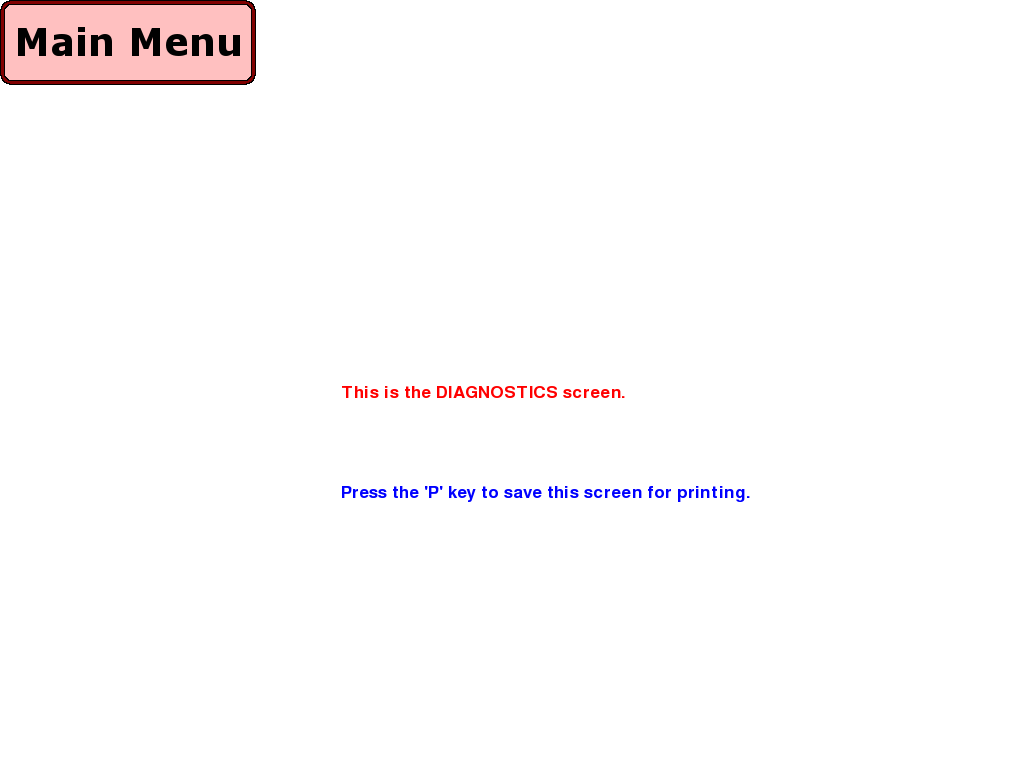
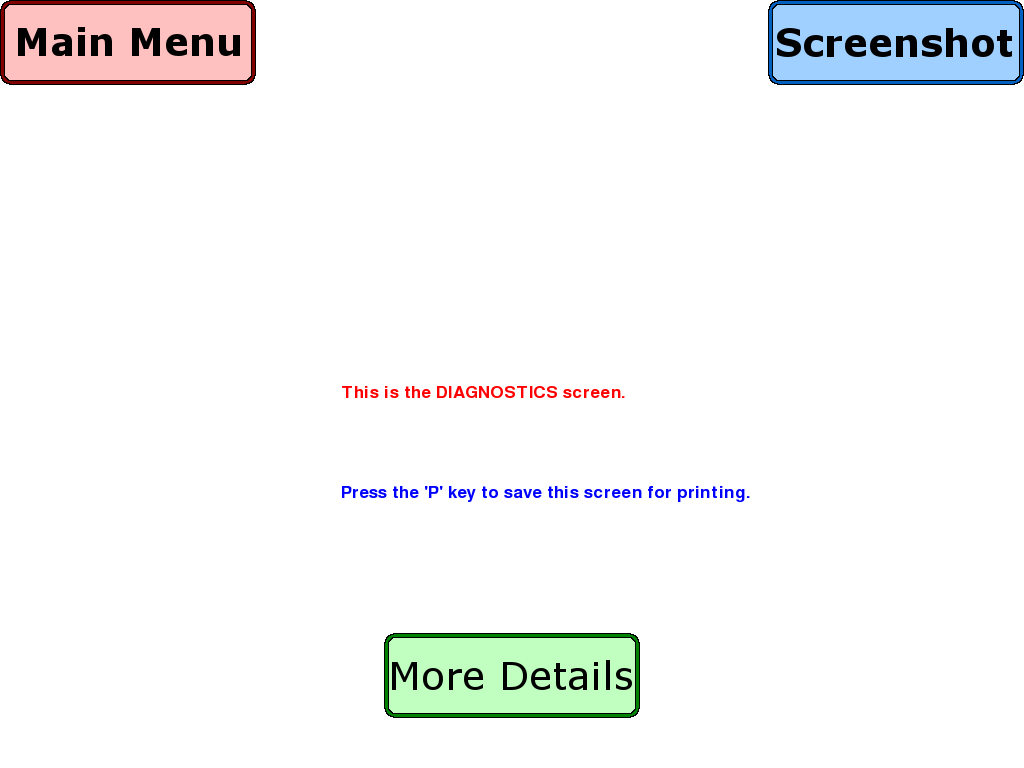
Syntax fixes and preliminary display work
Fixed a few syntactical errors stopping the program from running and
added information such as coordinates of the screen and objects that
will be displayed on the diagnostics screen.

Changed region(s): [[0.75, 0.0, 1.0, 0.125], [0.375, 0.8125, 0.625, 0.9375]]

diff --git a/pairs_to_peers.py b/pairs_to_peers.py
@@ -90,6 +90,22 @@ POS_BOX_SOUND = (768, 0)
 POS_SELECT_ARTWORK = (150, 210)
 POS_CHOOSE_BACKGROUND = (630, 210)
 
+#Diagnostics
+POS_SCREENSHOT = (768, 0)
+POS_MORE_DETAILS = (384, 633) #633 is 50px from the bottom of the screen for an 85px button
+POS_PLAYER_NAME_REPORT = (180, 140)
+POS_TIMESTAMP_REPORT = (180, 220)
+POS_DETAIL1_REPORT = (80, 320)
+POS_DETAIL2_REPORT = (80, 380)
+POS_DETAIL3_REPORT = (80, 440)
+POS_DETAIL4_REPORT = (80, 500)
+POS_DETAIL5_REPORT = (50, 560)
+POS_BREAKDOWN_TEXT = (592, 320)
+POS_BREAKDOWN_GREAT = (592, 380)
+POS_BREAKDOWN_OK = (742, 380)
+POS_BREAKDOWN_POOR = (592, 530)
+POS_BREAKDOWN_TIMEUP = (742, 530)
+
 backgroundColor = COLOR_WHITE
 soundOn = True
 
@@ -127,8 +143,6 @@ spr_backOfAnswerCard = pygame.image.load("img/card_back_small_" + cardArtwork + 
 spr_backOfScenarioCard = pygame.image.load("img/card_back_large_" + cardArtwork + ".png")
 
 #Customization screen
-#Due to the nature of the customization in this game, the paths of some of these images are stored as strings in order to save space later on.
-
 obj_square_white = Object("img/square_white_green.png", POS_SQUARE_WHITE)
 obj_square_lightpink = Object("img/square_lightpink.png", POS_SQUARE_LIGHTPINK)
 obj_square_lightblue = Object("img/square_lightblue.png", POS_SQUARE_LIGHTBLUE)
@@ -144,6 +158,10 @@ spr_selectArtwork = pygame.image.load("img/box_select_artwork.png")
 spr_chooseBackground = pygame.image.load("img/box_choose_background.png")
 squareObjArray = [obj_square_white, obj_square_lightpink, obj_square_lightblue, obj_square_lightgreen]
 cardBackObjArray = [obj_card_cubes, obj_card_marble, obj_card_pink, obj_card_stone, obj_card_tile, obj_card_woven, obj_box_sound]
+
+#Diagnostic screen
+obj_buttonScreenshot = Object("img/button_Screenshot.png", POS_SCREENSHOT)
+obj_buttonMoreDetails = Object("img/button_More_Details.png", POS_MORE_DETAILS)
 
 #This class defines the players of the game
 class Player:
@@ -284,10 +302,10 @@ class Diagnostics:
 		self.numMissed = self.numMissed + 1
 		self.rounds = self.rounds + 1
 	#record the amount of time played each round
-	def saveTime(self)
+	def saveTime(self):
 		self.totalTime = self.totalTime + (pygame.time.get_ticks() - startTime)
 	#return the total amount of time played
-	def getTotalTime(self)
+	def getTotalTime(self):
 		return self.totalTime
 	#return the average amount of time for each round
 	def getAvgTime(self):
@@ -955,18 +973,23 @@ def gameLoop():
 				TIME_ALLOWED = 10000
 
 		while (gameScreen == 9 and gameRun):
+			#The following values are dummy values that will be made to actually be dynamic later on.
+			playerName = "PLAYER NAME"
+			avgResponseTime = 4.3
+			finalPoints = 123
+			roundsToComplete = 24
+			totalPlaytime = 695
+
 			gameDisplay.fill(backgroundColor)
 			displayMessage("This is the DIAGNOSTICS screen.",COLOR_RED,[GAME_WIDTH/3,GAME_HEIGHT/2])
-			displayMessage("Press the 'P' key to save this screen for printing.",COLOR_BLUE,[GAME_WIDTH/3,(GAME_HEIGHT/2) + 100])
 			gameDisplay.blit(obj_buttonMainMenu.image, obj_buttonMainMenu.rect)
+			gameDisplay.blit(obj_buttonScreenshot.image, obj_buttonScreenshot.rect)
+			gameDisplay.blit(obj_buttonMoreDetails.image, obj_buttonMoreDetails.rect)
 
 			#NOTE: In order for the output image to correctly contain all elements of the screen, the event handling portion of the while loop needs to come after any drawing that occurs.
 			for event in pygame.event.get():
 				if event.type == pygame.QUIT:
 					gameRun = False #Ends the game if they user attempts to close the window
-				if event.type == pygame.KEYDOWN:
-					if event.key == pygame.K_p:
-						pygame.image.save(gameDisplay, "diagnosticOutput.png") #NOTE: later on, change this so that it outputs the image with a dynamic name based on things like player name.
 				if event.type == pygame.MOUSEBUTTONDOWN:
 					# Set the x, y positions of the mouse click
 					x, y = event.pos
@@ -974,6 +997,10 @@ def gameLoop():
 						if soundOn:
 							sound_blop.play()
 						gameScreen = 2
+					if ((obj_buttonScreenshot.rect.collidepoint(x, y))):
+						if soundOn:
+							sound_blop.play()
+						pygame.image.save(gameDisplay, "diagnosticOutput.png") #NOTE: later on, change this so that it outputs the image with a dynamic name based on things like player name.
 			pygame.display.update() #Updates the screen every frame
 			clock.tick(FRAMES_PER_SECOND)
 
